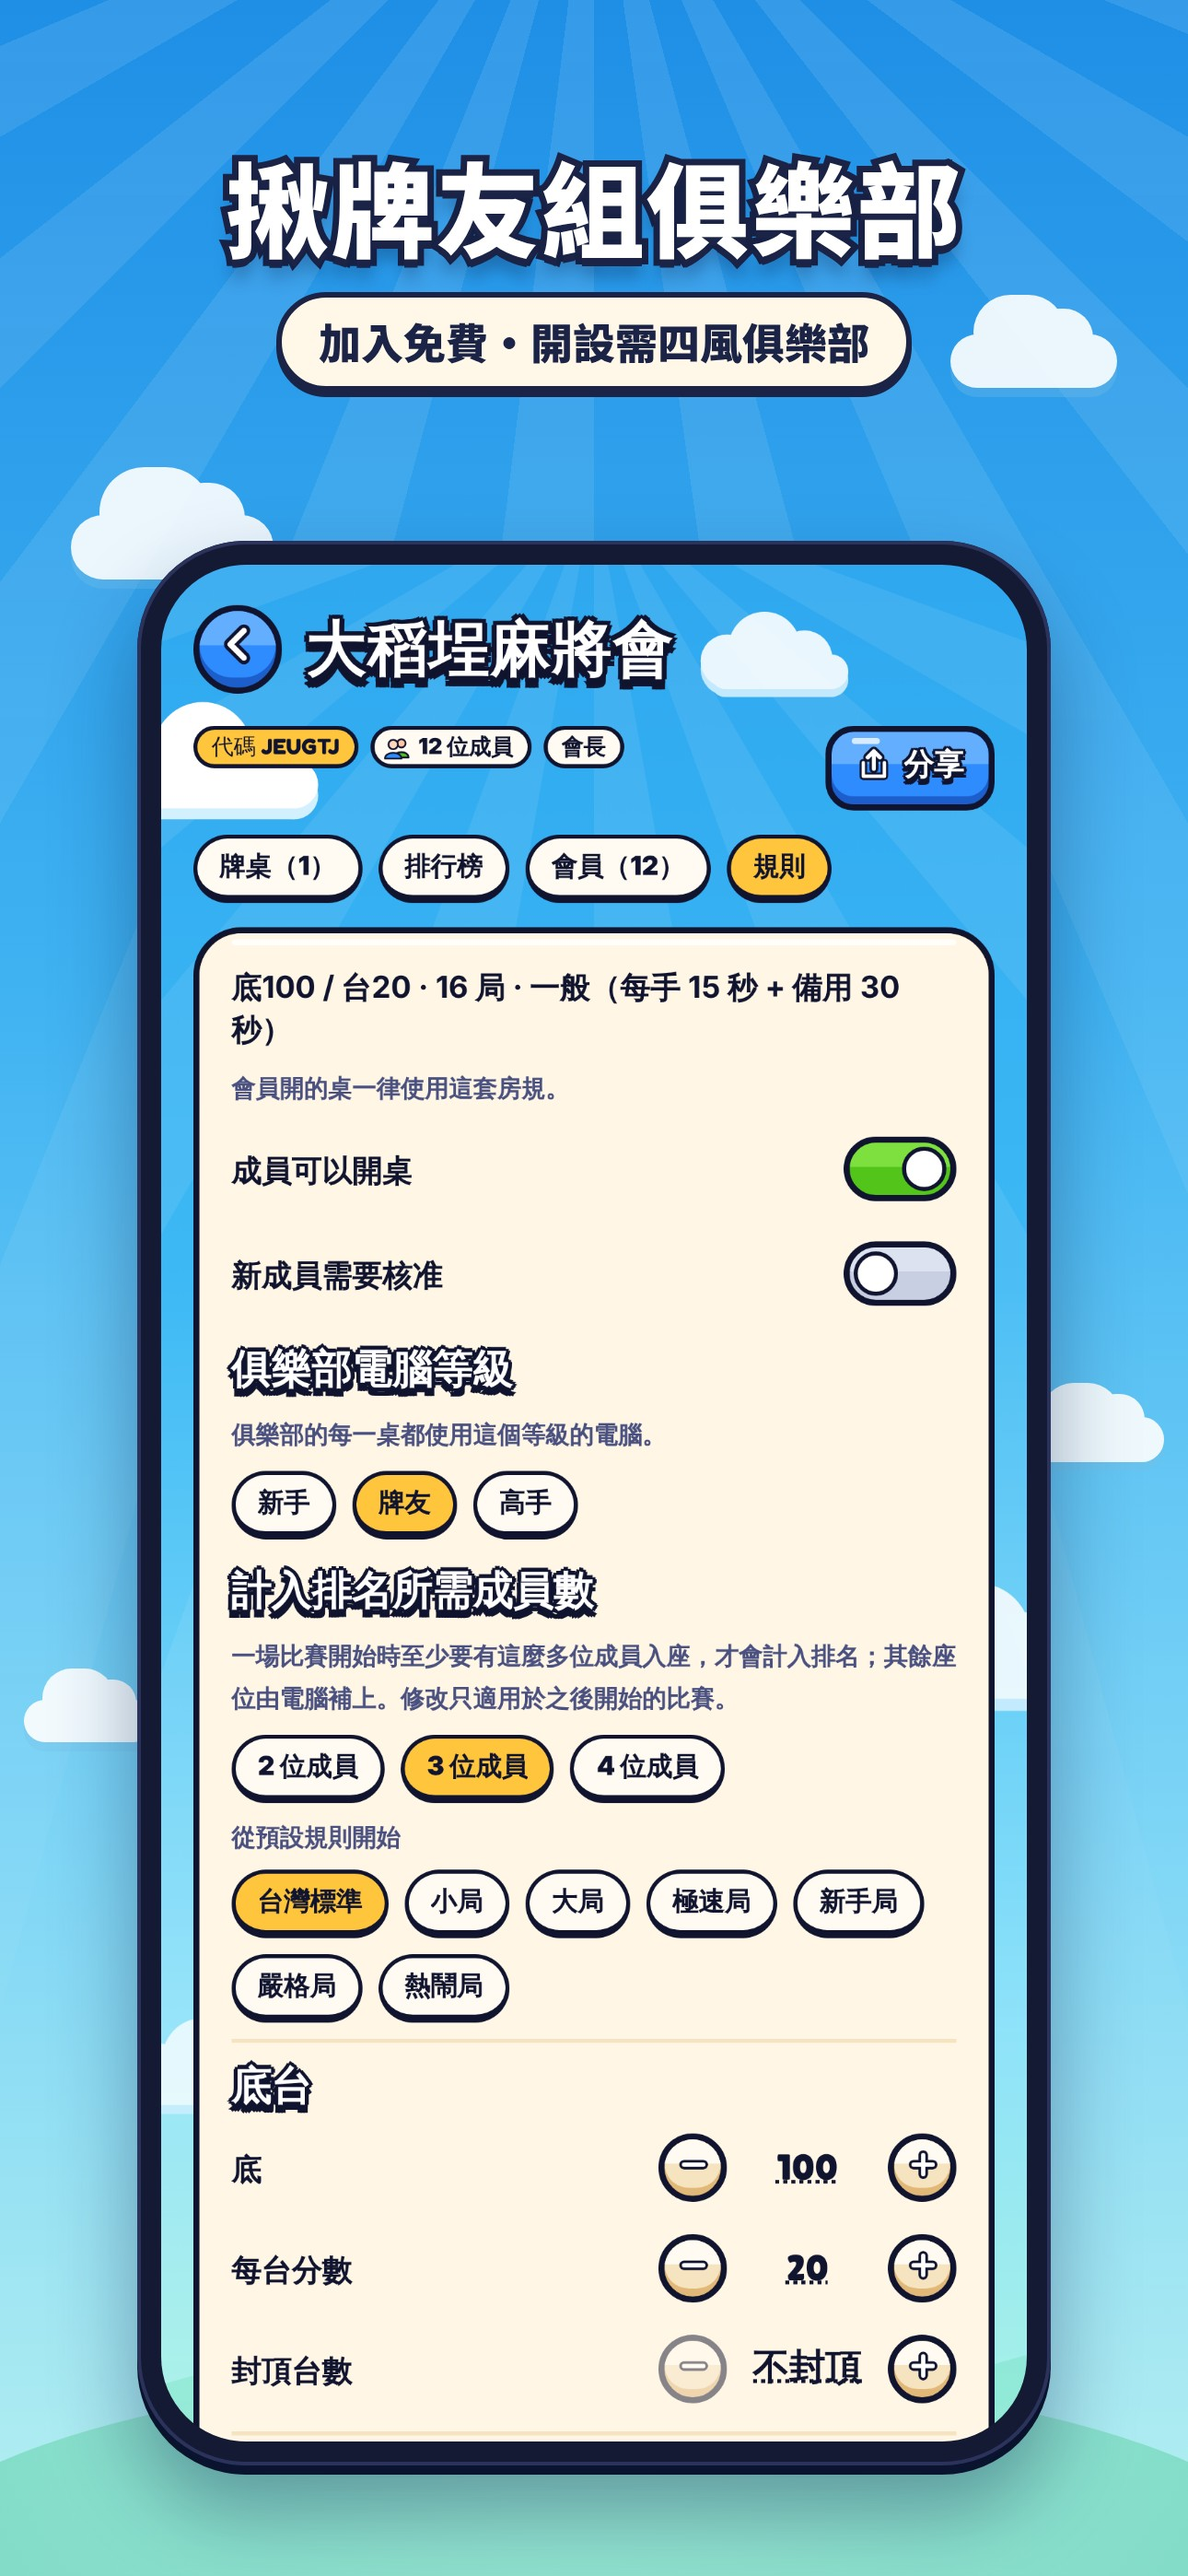
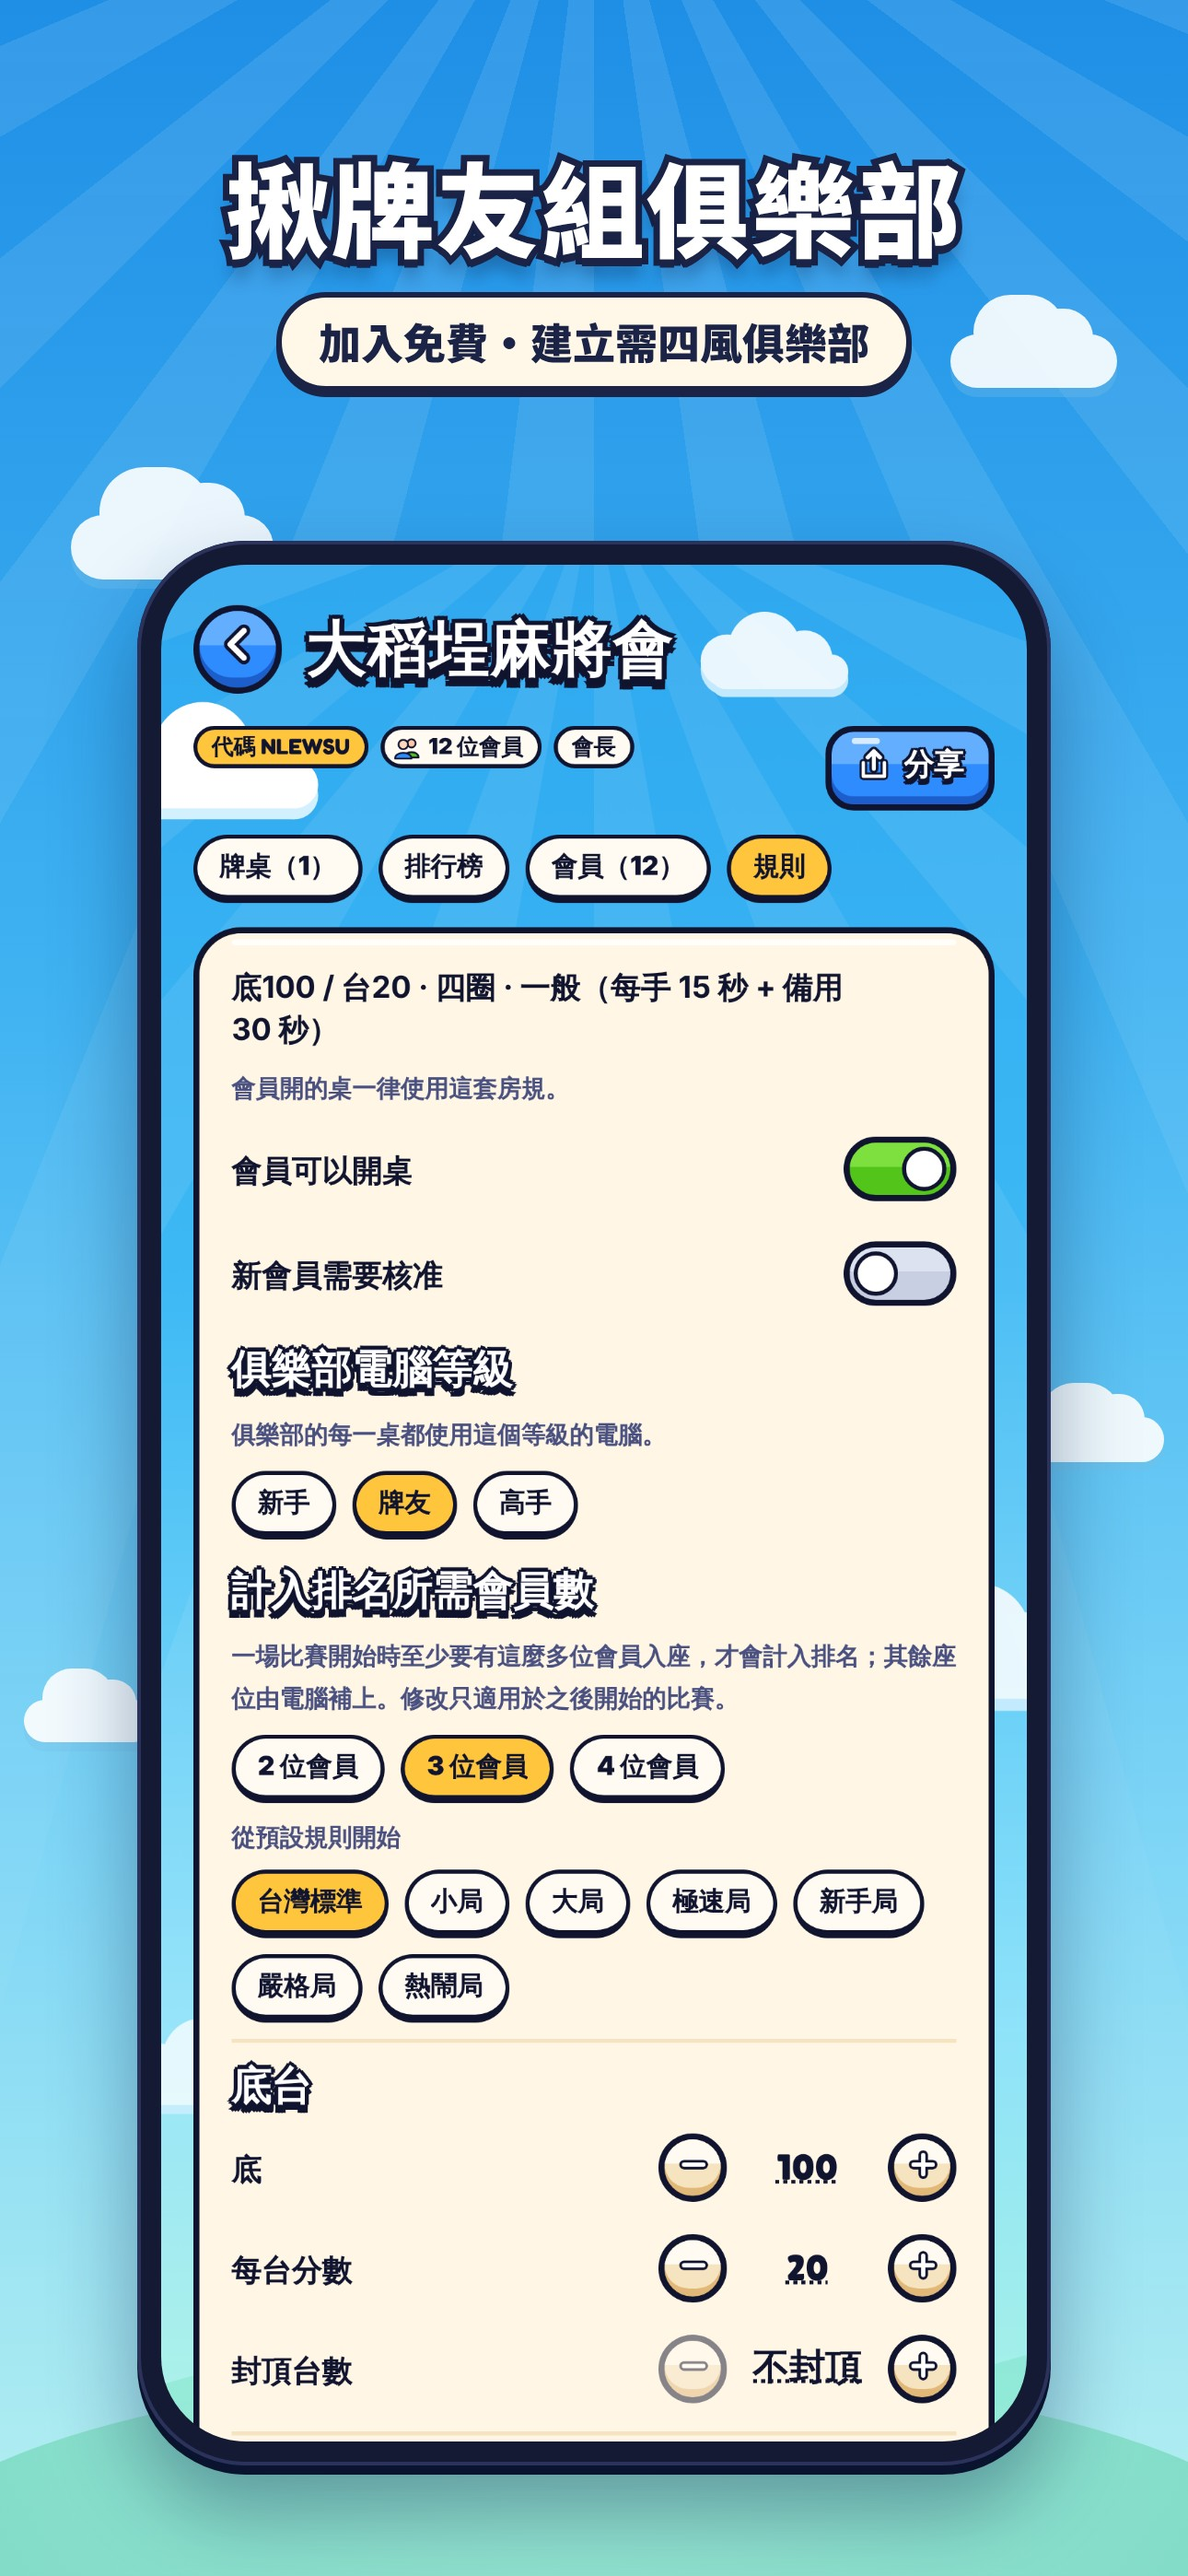
Add Google Play's 9:16 phone frames, and re-render the showcase with this unit's app fixes
Google Play takes no phone screenshot more than twice as long as it is wide, and the App
Store's phone frames are 1290 x 2796 (2.17:1). The showcase's frame tool now renders each
phone frame a second time at 9:16, 1080 x 1920 (<name>-play): the same screenshot and
caption, the device smaller under the same headline block. It writes each frame as PNG and,
in framed/jpeg, as JPEG at quality 90 (what the repository keeps), and checks each PNG's
header: its exact size, 8-bit RGB, no alpha channel.

The showcase ran again end to end on this unit's app (PGURL on the local Postgres; Noto
Sans TC for the Chinese headlines), so every frame in docs/screenshots shows the fixes of
the review of 20 November: 覆盤, 會員, 四圈, 時間, 打哪張？, 去上課, 自摸！ and 你胡了！ with
the stars on one line, the coach's 差一張就聽牌了。 and 吃這張也不會更接近聽牌。, heavy
Chinese titles, glosses readable on the claim buttons, 9 Dot kept whole in the table's
toast, and the wider coach panel on tablets. Same file names, JPEG at quality 90; the 18
Google Play frames sit beside them (en-01-hero-play.jpg beside en-01-hero.jpg), as
docs/SCREENSHOTS.md says. The club frame's caption says 建立, as the Shop now does.

Claude-Session: https://claude.ai/code/session_01UKgEJyrHUcs2SQqTb4vSxP

diff --git a/docs/SCREENSHOTS.md b/docs/SCREENSHOTS.md
@@ -7,6 +7,7 @@ in English (`en-*`) and Traditional Chinese (`zh-*`), and one collage per langua
 | --- | --- | --- |
 | `*-00-collage.jpg` | 3200 × 1800 | One image to share: five phones under the logo |
 | `*-01-hero.jpg` to `*-09-fair.jpg` | 1290 × 2796 | Phone frames in store order; the App Store's 6.7" iPhone size |
+| `*-01-hero-play.jpg` to `*-09-fair-play.jpg` | 1080 × 1920 | The same phone frames at 9:16, for Google Play |
 | `*-10-tablet-table.jpg` to `*-12-tablet-fair.jpg` | 2732 × 2048 | Tablet frames; the App Store's 12.9"/13" iPad size, landscape |
 
 The order follows a review of the first set by an art director, a visual QA pass and a native Taiwanese copywriter: the
@@ -14,9 +15,11 @@ win first, then what it is worth, the coach, learning, the hand review, clubs, l
 shuffle. The club frame says that creating a club takes The Four Winds Club (App Store guideline 2.3.2: a screenshot of
 something that needs a purchase says so).
 
-Google Play takes phone screenshots no more than twice as long as they are wide, so the 1290 × 2796 frames do not fit
-there; for Play, change the phone size in `apps/mobile/e2e/showcase/capture.cjs` (`DEVICES`) to a 9:16 screen (for
-example 412 × 732 at 2.625, which gives 1082 × 1922) and frame those.
+Google Play takes phone screenshots no more than twice as long as they are wide, so the 1290 × 2796 frames (2.17:1) do
+not fit there. Each phone frame therefore also comes at 9:16, 1080 × 1920, named with `-play` after it and kept beside it
+in `docs/screenshots/` (`en-01-hero-play.jpg` beside `en-01-hero.jpg`): the same screenshot and caption, the device
+smaller under the same headline block. They are 24-bit JPEG with no alpha channel, as Play asks; the tool also writes
+each frame as 24-bit PNG and checks it. The tablet frames and the collages are within Play's limits as they are.
 
 ## What is staged, and what is real
 
@@ -55,8 +58,10 @@ PGURL=postgres://postgres@localhost:5432 apps/mobile/e2e/showcase/showcase.sh /t
 - `DEAL` (optional): another deal seed. `node apps/mobile/e2e/showcase/find-deal.cjs <webdir> 1 60` plays sixty deals
   and lists the player's best wins.
 
-It writes every capture to `<outdir>/shots` and the framed set to `<outdir>/framed` (PNG). The headlines and
-sub-captions are in `apps/mobile/e2e/showcase/frames.json`. The repository keeps the framed set as JPEG at quality 90.
+It writes every capture to `<outdir>/shots` and the framed set to `<outdir>/framed`: each frame as PNG, and as JPEG at
+quality 90 in `<outdir>/framed/jpeg`, which is what the repository keeps (copy them to `docs/screenshots/` as they are).
+The headlines and sub-captions are in `apps/mobile/e2e/showcase/frames.json`; each phone frame there also gives its
+Google Play variant.
 
 | Script | What it does |
 | --- | --- |
@@ -64,5 +69,5 @@ sub-captions are in `apps/mobile/e2e/showcase/frames.json`. The repository keeps
 | `boot.cjs` | The sample player's first launch: the app signs up its own account; the page's storage is saved |
 | `seed.cjs` | The two clubs (over the API), then players, boards, standings, diamonds and the Night Market set (in SQL); then each language's names |
 | `capture.cjs` | The screens, in six stories: the seeded hand, the same hand at the Night Market table, a hand at an online club table and its check, learning and leaderboards, clubs, the Shop |
-| `frame.cjs` | The device frames, headlines and collages |
+| `frame.cjs` | The device frames, headlines and collages, and the Google Play variant of each phone frame |
 | `find-deal.cjs` | Plays many deals and lists the player's best wins |
